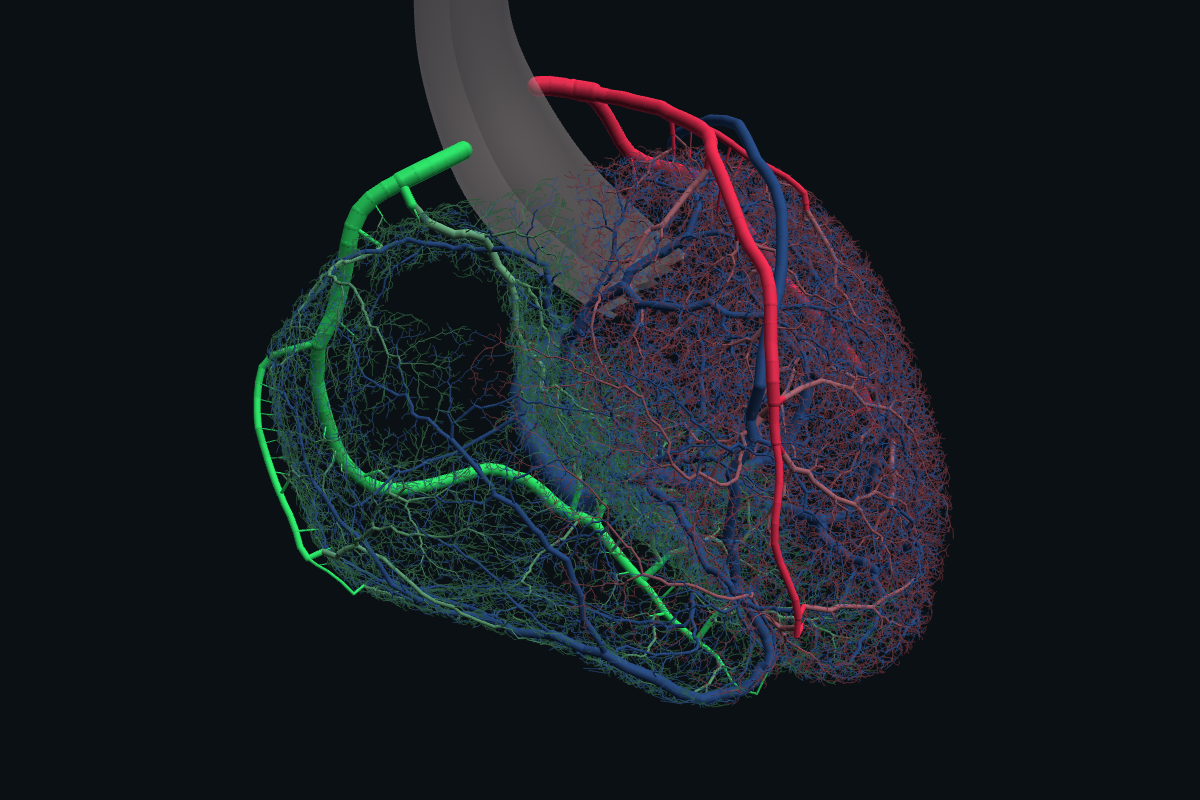
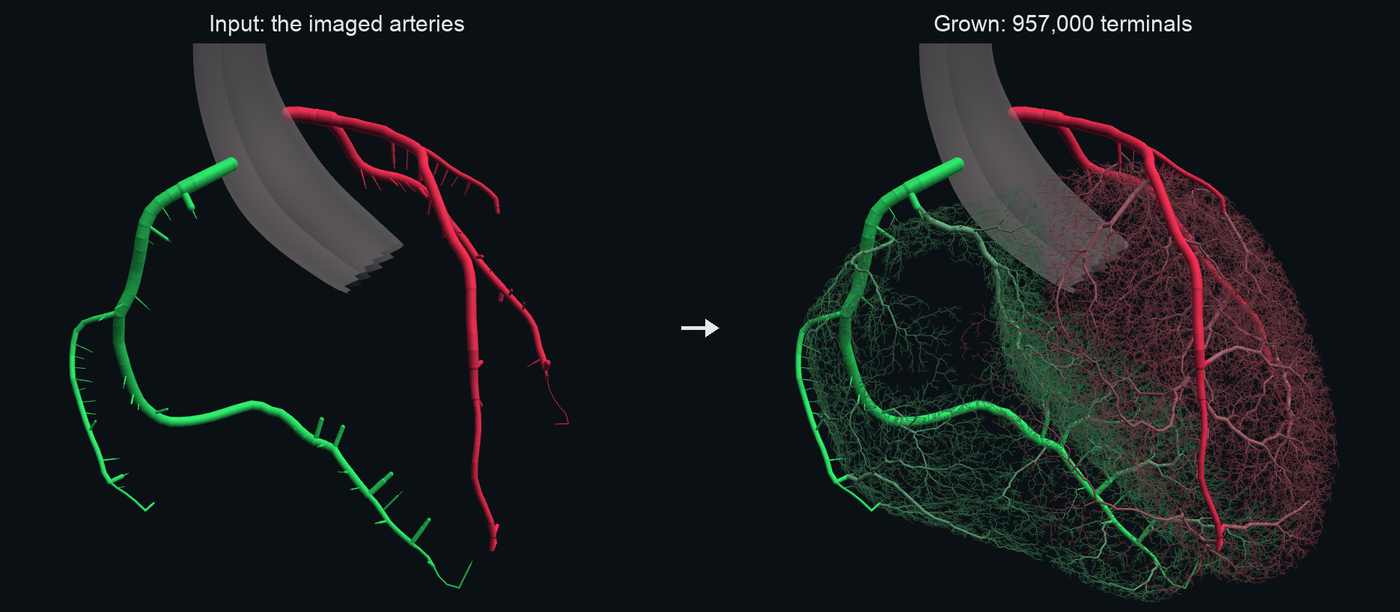
README: step 1 shows the imaged input next to the grown tree

diff --git a/README.md b/README.md
@@ -20,7 +20,7 @@ Pkg.add(url = "https://github.com/MolloiLab/Vasculature.jl")
 
 ## 1. Grow
 
-![grown heart tree](docs/assets/step1_grow.png)
+![imaged input → grown tree](docs/assets/step1_grow.png)
 
 You give four things; everything else is the same for every organ:
 
